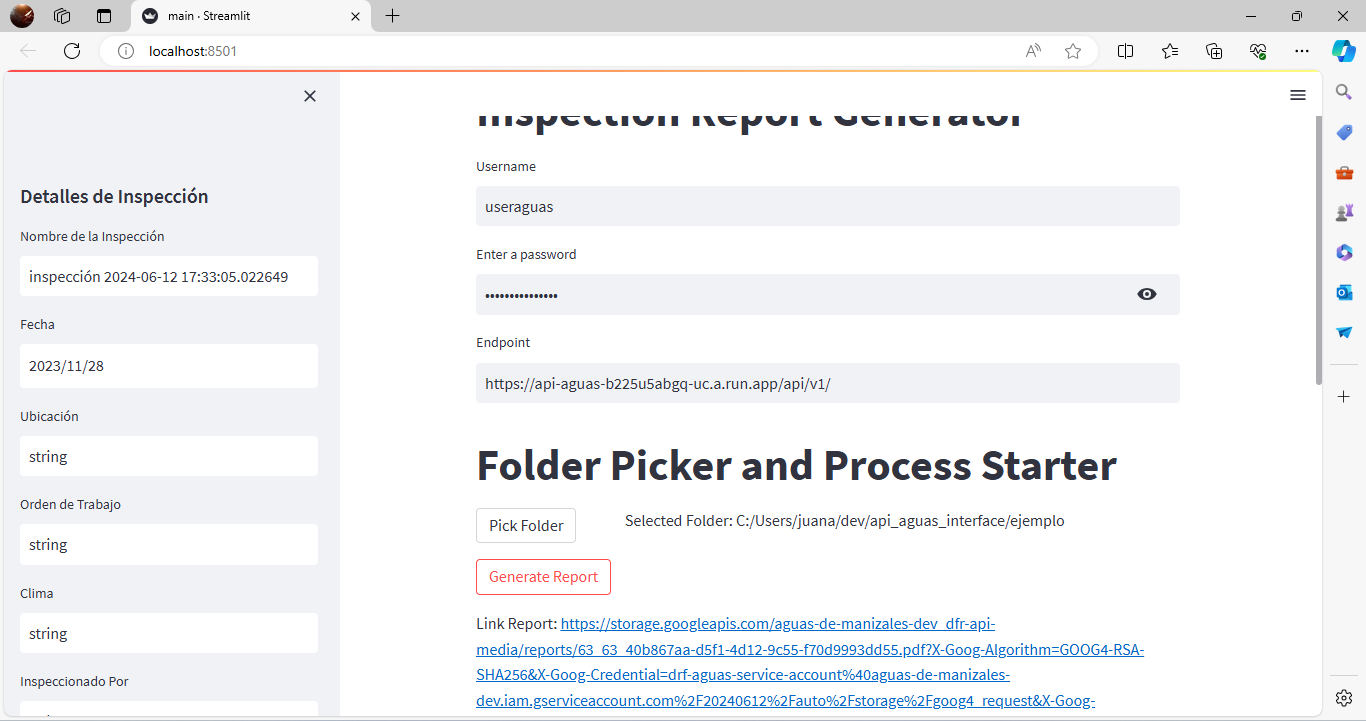
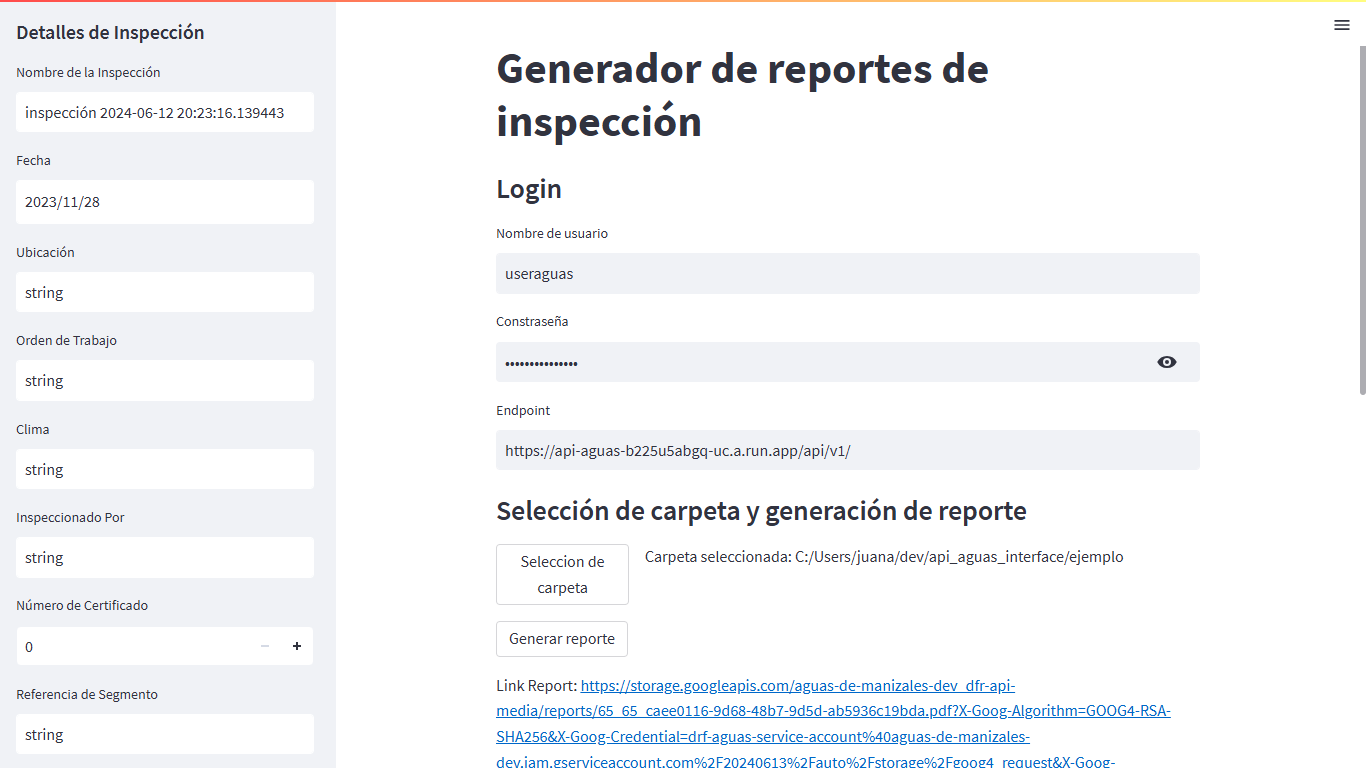
Refactor functions and change language

diff --git a/api_aguas_interface/main.py b/api_aguas_interface/main.py
@@ -9,12 +9,16 @@ from tkinter import filedialog
 import logging 
 from api_aguas_interface.logger_config import logger, StreamlitLogHandler  # Import the logger from the logger_config module
 
-
 # Initialize the log handler and add it to the logger
-log_handler = StreamlitLogHandler()
-log_handler.setLevel(logging.DEBUG)
-logger.addHandler(log_handler)
+def setup_logger():
+    log_handler = StreamlitLogHandler()
+    log_handler.setLevel(logging.DEBUG)
+    logger.addHandler(log_handler)
+    return log_handler
 
+log_handler = setup_logger()
+
+# Default inspection details
 detalles_inspeccion = {
     "nombre": f'inspección {datetime.now()}',
     "fecha": "2023-11-28",
@@ -55,67 +59,65 @@ detalles_inspeccion = {
     "mts_por_pixel": 0.001
 }
 
-# Streamlit app
-def main():
-    logger.info("Starting the Streamlit app")
-    st.title("Inspection Report Generator")
-
-    st.sidebar.header("Detalles de Inspección")
-    nombre = st.sidebar.text_input("Nombre de la Inspección", value=detalles_inspeccion["nombre"])
-    fecha = st.sidebar.date_input("Fecha", value=datetime.strptime(detalles_inspeccion["fecha"], "%Y-%m-%d"))
-    ubicacion = st.sidebar.text_input("Ubicación", value=detalles_inspeccion["ubicacion"])
-    orden_de_trabajo = st.sidebar.text_input("Orden de Trabajo", value=detalles_inspeccion["orden_de_trabajo"])
-    clima = st.sidebar.text_input("Clima", value=detalles_inspeccion["clima"])
-    inspeccionado_por = st.sidebar.text_input("Inspeccionado Por", value=detalles_inspeccion["inspeccionado_por"])
-    numero_certificado = st.sidebar.number_input("Número de Certificado", value=detalles_inspeccion["numero_certificado"], min_value=0)
-    referencia_segmento = st.sidebar.text_input("Referencia de Segmento", value=detalles_inspeccion["referencia_segmento"])
-    año_fabricacion = st.sidebar.number_input("Año de Fabricación", value=detalles_inspeccion["año_fabricacion"], min_value=0)
-    limpieza_previa = st.sidebar.number_input("Limpieza Previa", value=detalles_inspeccion["limpieza_previa"], min_value=0)
-    direccion_agua = st.sidebar.text_input("Dirección del Agua", value=detalles_inspeccion["direccion_agua"])
-    longitud_entre_juntas = st.sidebar.text_input("Longitud Entre Juntas", value=detalles_inspeccion["longitud_entre_juntas"])
-    longitud_total = st.sidebar.text_input("Longitud Total", value=detalles_inspeccion["longitud_total"])
-    longitud_inspeccionada = st.sidebar.text_input("Longitud Inspeccionada", value=detalles_inspeccion["longitud_inspeccionada"])
-    ciudad = st.sidebar.text_input("Ciudad", value=detalles_inspeccion["ciudad"])
-    codigo_ubicacion = st.sidebar.text_input("Código de Ubicación", value=detalles_inspeccion["codigo_ubicacion"])
-    detalles_ubicacion = st.sidebar.text_input("Detalles de Ubicación", value=detalles_inspeccion["detalles_ubicacion"])
-    area_drenaje = st.sidebar.number_input("Área de Drenaje", value=detalles_inspeccion["area_drenaje"], min_value=0)
-    etiqueta_medio = st.sidebar.text_input("Etiqueta de Medio", value=detalles_inspeccion["etiqueta_medio"])
-    control_flujo = st.sidebar.text_input("Control de Flujo", value=detalles_inspeccion["control_flujo"])
-    no_hoja = st.sidebar.number_input("Número de Hoja", value=detalles_inspeccion["no_hoja"], min_value=0)
-    camara_arriba = st.sidebar.text_input("Cámara Arriba", value=detalles_inspeccion["camara_arriba"])
-    dist_marco_solera = st.sidebar.number_input("Distancia Marco a Solera", value=detalles_inspeccion["dist_marco_solera"], min_value=0)
-    camara_abajo = st.sidebar.text_input("Cámara Abajo", value=detalles_inspeccion["camara_abajo"])
-    dist_suelo_solera = st.sidebar.number_input("Distancia Suelo a Solera", value=detalles_inspeccion["dist_suelo_solera"], min_value=0)
-    forma = st.sidebar.text_input("Forma", value=detalles_inspeccion["forma"])
-    tamaño = st.sidebar.number_input("Tamaño", value=detalles_inspeccion["tamaño"], min_value=0)
-    material = st.sidebar.text_input("Material", value=detalles_inspeccion["material"])
-    revestimiento = st.sidebar.text_input("Revestimiento", value=detalles_inspeccion["revestimiento"])
-    uso = st.sidebar.text_input("Uso", value=detalles_inspeccion["uso"])
-    categoria = st.sidebar.text_input("Categoría", value=detalles_inspeccion["categoria"])
-    proposito = st.sidebar.text_input("Propósito", value=detalles_inspeccion["proposito"])
-    propietario = st.sidebar.text_input("Propietario", value=detalles_inspeccion["propietario"])
-    galones_usados = st.sidebar.number_input("Galones Usados", value=detalles_inspeccion["galones_usados"], min_value=0)
-    juntas_aprobadas = st.sidebar.number_input("Juntas Aprobadas", value=detalles_inspeccion["juntas_aprobadas"], min_value=0)
-    juntas_no_aprobadas = st.sidebar.number_input("Juntas No Aprobadas", value=detalles_inspeccion["juntas_no_aprobadas"], min_value=0)
-    mts_por_pixel = st.sidebar.number_input("Metros por Píxel", value=detalles_inspeccion["mts_por_pixel"], min_value=0.001, step=0.001)
-    
-    username = st.text_input('Username')
-    password = st.text_input("Password", type="password")
-    endpoint = st.text_input('Endpoint')
-
-    # Initialize tkinter
+def initialize_tkinter():
     root = tk.Tk()
     root.withdraw()
     root.wm_attributes('-topmost', 1)
+    return root
 
-    # Function to pick a folder
-    def pick_folder():
-        folder_path = filedialog.askdirectory(master=root)
-        logger.debug(f"Folder picked: {folder_path}")
-        return folder_path
+def pick_folder(root):
+    folder_path = filedialog.askdirectory(master=root)
+    logger.debug(f"Carpeta: {folder_path}")
+    return folder_path
+
+def get_inspection_details():
+    st.sidebar.header("Detalles de Inspección")
+    details = {
+        "nombre": st.sidebar.text_input("Nombre de la Inspección", value=detalles_inspeccion["nombre"]),
+        "fecha": st.sidebar.date_input("Fecha", value=datetime.strptime(detalles_inspeccion["fecha"], "%Y-%m-%d")),
+        "ubicacion": st.sidebar.text_input("Ubicación", value=detalles_inspeccion["ubicacion"]),
+        "orden_de_trabajo": st.sidebar.text_input("Orden de Trabajo", value=detalles_inspeccion["orden_de_trabajo"]),
+        "clima": st.sidebar.text_input("Clima", value=detalles_inspeccion["clima"]),
+        "inspeccionado_por": st.sidebar.text_input("Inspeccionado Por", value=detalles_inspeccion["inspeccionado_por"]),
+        "numero_certificado": st.sidebar.number_input("Número de Certificado", value=detalles_inspeccion["numero_certificado"], min_value=0),
+        "referencia_segmento": st.sidebar.text_input("Referencia de Segmento", value=detalles_inspeccion["referencia_segmento"]),
+        "año_fabricacion": st.sidebar.number_input("Año de Fabricación", value=detalles_inspeccion["año_fabricacion"], min_value=0),
+        "limpieza_previa": st.sidebar.number_input("Limpieza Previa", value=detalles_inspeccion["limpieza_previa"], min_value=0),
+        "direccion_agua": st.sidebar.text_input("Dirección del Agua", value=detalles_inspeccion["direccion_agua"]),
+        "longitud_entre_juntas": st.sidebar.text_input("Longitud Entre Juntas", value=detalles_inspeccion["longitud_entre_juntas"]),
+        "longitud_total": st.sidebar.text_input("Longitud Total", value=detalles_inspeccion["longitud_total"]),
+        "longitud_inspeccionada": st.sidebar.text_input("Longitud Inspeccionada", value=detalles_inspeccion["longitud_inspeccionada"]),
+        "ciudad": st.sidebar.text_input("Ciudad", value=detalles_inspeccion["ciudad"]),
+        "codigo_ubicacion": st.sidebar.text_input("Código de Ubicación", value=detalles_inspeccion["codigo_ubicacion"]),
+        "detalles_ubicacion": st.sidebar.text_input("Detalles de Ubicación", value=detalles_inspeccion["detalles_ubicacion"]),
+        "area_drenaje": st.sidebar.number_input("Área de Drenaje", value=detalles_inspeccion["area_drenaje"], min_value=0),
+        "etiqueta_medio": st.sidebar.text_input("Etiqueta de Medio", value=detalles_inspeccion["etiqueta_medio"]),
+        "control_flujo": st.sidebar.text_input("Control de Flujo", value=detalles_inspeccion["control_flujo"]),
+        "no_hoja": st.sidebar.number_input("Número de Hoja", value=detalles_inspeccion["no_hoja"], min_value=0),
+        "camara_arriba": st.sidebar.text_input("Cámara Arriba", value=detalles_inspeccion["camara_arriba"]),
+        "dist_marco_solera": st.sidebar.number_input("Distancia Marco a Solera", value=detalles_inspeccion["dist_marco_solera"], min_value=0),
+        "camara_abajo": st.sidebar.text_input("Cámara Abajo", value=detalles_inspeccion["camara_abajo"]),
+        "dist_suelo_solera": st.sidebar.number_input("Distancia Suelo a Solera", value=detalles_inspeccion["dist_suelo_solera"], min_value=0),
+        "forma": st.sidebar.text_input("Forma", value=detalles_inspeccion["forma"]),
+        "tamaño": st.sidebar.number_input("Tamaño", value=detalles_inspeccion["tamaño"], min_value=0),
+        "material": st.sidebar.text_input("Material", value=detalles_inspeccion["material"]),
+        "revestimiento": st.sidebar.text_input("Revestimiento", value=detalles_inspeccion["revestimiento"]),
+        "uso": st.sidebar.text_input("Uso", value=detalles_inspeccion["uso"]),
+        "categoria": st.sidebar.text_input("Categoría", value=detalles_inspeccion["categoria"]),
+        "proposito": st.sidebar.text_input("Propósito", value=detalles_inspeccion["proposito"]),
+        "propietario": st.sidebar.text_input("Propietario", value=detalles_inspeccion["propietario"]),
+        "galones_usados": st.sidebar.number_input("Galones Usados", value=detalles_inspeccion["galones_usados"], min_value=0),
+        "juntas_aprobadas": st.sidebar.number_input("Juntas Aprobadas", value=detalles_inspeccion["juntas_aprobadas"], min_value=0),
+        "juntas_no_aprobadas": st.sidebar.number_input("Juntas No Aprobadas", value=detalles_inspeccion["juntas_no_aprobadas"], min_value=0),
+        "mts_por_pixel": st.sidebar.number_input("Metros por Píxel", value=detalles_inspeccion["mts_por_pixel"], min_value=0.001, step=0.001),
+    }
+    return details
+
+def display_folder_picker():
+    root = initialize_tkinter()
 
     # Title of the app
-    st.title('Folder Picker and Process Starter')
+    st.subheader('Selección de carpeta y generación de reporte')
 
     # Ensure session state is initialized
     if 'folder_path' not in st.session_state:
@@ -126,80 +128,96 @@ def main():
 
     # Add folder picker button to the left column
     with col1:
-        if st.button('Pick Folder'):
-            st.session_state.folder_path = pick_folder()
+        if st.button('Selección de carpeta'):
+            st.session_state.folder_path = pick_folder(root)
 
     # Display the selected folder path in the right column
     with col2:
         if st.session_state.folder_path:
-            st.write("Selected Folder:", st.session_state.folder_path)
+            st.write("Carpeta seleccionada:", st.session_state.folder_path)
+
+def generate_report(endpoint, username, password, inspection_details, folder_path):
+    report_generator = GenerateReport(endpoint, username, password)
+
+    payload = {
+        "name": inspection_details["nombre"],
+        "date": inspection_details["fecha"].strftime("%Y-%m-%d"),
+        "ubicacion": inspection_details["ubicacion"],
+        "orden_de_trabajo": inspection_details["orden_de_trabajo"],
+        "clima": inspection_details["clima"],
+        "inspeccionado_por": inspection_details["inspeccionado_por"],
+        "numero_certificado": inspection_details["numero_certificado"],
+        "referencia_segmento": inspection_details["referencia_segmento"],
+        "año_fabricacion": inspection_details["año_fabricacion"],
+        "limpieza_previa": inspection_details["limpieza_previa"],
+        "direccion_agua": inspection_details["direccion_agua"],
+        "longitud_entre_juntas": inspection_details["longitud_entre_juntas"],
+        "longitud_total": inspection_details["longitud_total"],
+        "longitud_inspeccionada": inspection_details["longitud_inspeccionada"],
+        "ciudad": inspection_details["ciudad"],
+        "codigo_ubicacion": inspection_details["codigo_ubicacion"],
+        "detalles_ubicacion": inspection_details["detalles_ubicacion"],
+        "area_drenaje": inspection_details["area_drenaje"],
+        "etiqueta_medio": inspection_details["etiqueta_medio"],
+        "control_flujo": inspection_details["control_flujo"],
+        "no_hoja": inspection_details["no_hoja"],
+        "camara_arriba": inspection_details["camara_arriba"],
+        "dist_marco_solera": inspection_details["dist_marco_solera"],
+        "camara_abajo": inspection_details["camara_abajo"],
+        "dist_suelo_solera": inspection_details["dist_suelo_solera"],
+        "forma": inspection_details["forma"],
+        "tamaño": inspection_details["tamaño"],
+        "material": inspection_details["material"],
+        "revestimiento": inspection_details["revestimiento"],
+        "uso": inspection_details["uso"],
+        "categoria": inspection_details["categoria"],
+        "proposito": inspection_details["proposito"],
+        "propietario": inspection_details["propietario"],
+        "galones_usados": inspection_details["galones_usados"],
+        "jutas_aprobadas": inspection_details["juntas_aprobadas"],
+        "juntas_no_aprobadas": inspection_details["juntas_no_aprobadas"],
+        "mts_per_pixel": inspection_details["mts_por_pixel"],
+    }
+
+    with st.spinner("Creando inspección..."):
+        logger.info("Creating inspection with payload")
+        report_generator.create_inspection(payload=payload)
+    with st.spinner("Cargando imágenes..."):    
+        logger.info("Loading folder with images")
+        report_generator.load_folder(folder=Path(folder_path))
+
+    with st.spinner("Generando reporte..."):
+        logger.info("Generating report")
+        report_generator.generate_report()
     
-    if st.button("Generate Report"):
+    with st.spinner("Descargando reporte..."):
+        link = report_generator.download_report()
+        logger.info(f"Report downloaded, link: {link}")
+        st.write("Link Report:", link)
+
+def main():
+    logger.info("Starting the Streamlit app")
+    st.title("Generador de reportes de inspección")
+
+    inspection_details = get_inspection_details()
+    st.subheader('Login')
+    username = st.text_input('Nombre de usuario')
+    password = st.text_input("Constraseña", type="password")
+    endpoint = st.text_input('Endpoint')
+
+    display_folder_picker()
+    
+    if st.button("Generar reporte"):
         if st.session_state.folder_path:
-            report_generator = GenerateReport(endpoint, username, password)
-
-            payload = {
-                "name": nombre,
-                "date": fecha.strftime("%Y-%m-%d"),
-                "ubicacion": ubicacion,
-                "orden_de_trabajo": orden_de_trabajo,
-                "clima": clima,
-                "inspeccionado_por": inspeccionado_por,
-                "numero_certificado": numero_certificado,
-                "referencia_segmento": referencia_segmento,
-                "año_fabricacion": año_fabricacion,
-                "limpieza_previa": limpieza_previa,
-                "direccion_agua": direccion_agua,
-                "longitud_entre_juntas": longitud_entre_juntas,
-                "longitud_total": longitud_total,
-                "longitud_inspeccionada": longitud_inspeccionada,
-                "ciudad": ciudad,
-                "codigo_ubicacion": codigo_ubicacion,
-                "detalles_ubicacion": detalles_ubicacion,
-                "area_drenaje": area_drenaje,
-                "etiqueta_medio": etiqueta_medio,
-                "control_flujo": control_flujo,
-                "no_hoja": no_hoja,
-                "camara_arriba": camara_arriba,
-                "dist_marco_solera": dist_marco_solera,
-                "camara_abajo": camara_abajo,
-                "dist_suelo_solera": dist_suelo_solera,
-                "forma": forma,
-                "tamaño": tamaño,
-                "material": material,
-                "revestimiento": revestimiento,
-                "uso": uso,
-                "categoria": categoria,
-                "proposito": proposito,
-                "propietario": propietario,
-                "galones_usados": galones_usados,
-                "jutas_aprobadas": juntas_aprobadas,
-                "juntas_no_aprobadas": juntas_no_aprobadas,
-                "mts_per_pixel": mts_por_pixel,
-            }
-
-            with st.spinner("Creating inspection..."):
-                logger.info("Creating inspection with payload")
-                report_generator.create_inspection(payload=payload)
-            with st.spinner("Loading Images..."):    
-                logger.info("Loading folder with images")
-                report_generator.load_folder(folder=Path(st.session_state.folder_path))
-
-            with st.spinner("Generating report..."):
-                logger.info("Generating report")
-                report_generator.generate_report()
-            
-            with st.spinner("Downloading report..."):
-                link = report_generator.download_report()
-                logger.info(f"Report downloaded, link: {link}")
-                st.write("Link Report:", link)
+            generate_report(endpoint, username, password, inspection_details, st.session_state.folder_path)
         else:
-            st.warning("Please select a folder first")
+            st.warning("Por favor seleccione una carpeta primero")
             logger.warning("No folder selected when trying to generate report")
     
     # Display logs
     st.subheader("Logs")
     st.text_area("Log Output", value=log_handler.get_logs(), height=300)
+
 
 def launch_streamlit_app():
     app_path = os.path.realpath(__file__)
@@ -207,11 +225,9 @@ def launch_streamlit_app():
         logger.error(f"The file '{app_path}' does not exist.")
         raise FileNotFoundError(f"The file '{app_path}' does not exist.")
 
-    # Run the Streamlit app using subprocess
-    # subprocess.Popen(['streamlit', 'run', app_path])
-
     os.system(f'streamlit run {app_path}')
     logger.info("Streamlit app launched")
+
 
 if __name__ == "__main__":
     main()
